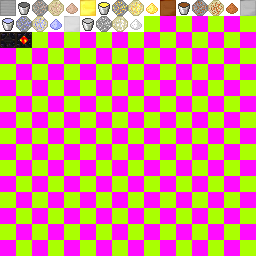
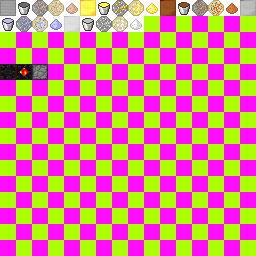
Working on Grinder TE

Changed region(s): [[0.0, 0.25, 0.1875, 0.3125], [0.0, 0.125, 0.125, 0.1875]]

diff --git a/Blocks/TileGrinder1.java b/Blocks/TileGrinder1.java
@@ -1,0 +1,102 @@
+package LM.Blocks;
+
+import net.minecraft.src.EntityPlayer;
+import net.minecraft.src.IInventory;
+import net.minecraft.src.ItemStack;
+import net.minecraft.src.NBTTagCompound;
+import buildcraft.core.TileBuildCraft;
+import buildcraft.core.network.PacketPayload;
+import buildcraft.core.network.PacketUpdate;
+
+public class TileGrinder1 extends TileBuildCraft implements IInventory {
+	public ItemStack[] inventory = new ItemStack[2];
+	
+	public void updateEntity() {
+		
+	}
+	
+	@Override
+	public PacketPayload getPacketPayload() {
+		PacketPayload payload = new PacketPayload(20, 0, 0);
+		return payload;
+	}
+	
+	@Override
+	public void handleUpdatePacket(PacketUpdate packet) {
+		
+	}
+	
+	@Override
+	public void readFromNBT(NBTTagCompound data) {
+		super.readFromNBT(data);
+	}
+	
+	@Override
+	public void writeToNBT(NBTTagCompound data) {
+		super.writeToNBT(data);
+	}
+	
+	//required stuff
+	@Override
+	public int getSizeInventory() {
+		return inventory.length;
+	}
+
+	@Override
+	public ItemStack getStackInSlot(int var1) {
+		return inventory[var1];
+	}
+
+	@Override
+	public ItemStack decrStackSize(int slotId, int count) {
+		if (inventory[slotId] == null)
+			return null;
+		if (inventory[slotId].stackSize > count)
+			return inventory[slotId].splitStack(count);
+		ItemStack stack = inventory[slotId];
+		inventory[slotId] = null;
+		return stack;
+	}
+	
+	@Override
+	public ItemStack getStackInSlotOnClosing(int i) {
+		if (this.inventory[i] == null)
+			return null;
+
+		ItemStack stackToTake = this.inventory[i];
+		this.inventory[i] = null;
+		return stackToTake;
+	}
+
+	@Override
+	public void setInventorySlotContents(int var1, ItemStack var2) {
+		inventory[var1] = var2;
+	}
+
+	@Override
+	public String getInvName() {
+		return "Grinder 1";
+	}
+
+	@Override
+	public int getInventoryStackLimit() {
+		return 64;
+	}
+
+	@Override
+	public boolean isUseableByPlayer(EntityPlayer var1) {
+		return true;
+	}
+
+	@Override
+	public void openChest() {
+		// TODO Auto-generated method stub
+		
+	}
+
+	@Override
+	public void closeChest() {
+		// TODO Auto-generated method stub
+		
+	}
+}

diff --git a/DEFAULT_SETTINGS.java b/DEFAULT_SETTINGS.java
@@ -60,10 +60,12 @@ public class DEFAULT_SETTINGS {
 		LM_Main.liquidMoltenTin = LiquidDictionary.getOrCreateLiquid("Molten " + names.get(3), new LiquidStack(LM_Main.molten.shiftedIndex, 1, 3));
 		LM_Main.liquidMoltenSilver = LiquidDictionary.getOrCreateLiquid("Molten " + names.get(4), new LiquidStack(LM_Main.molten.shiftedIndex, 1, 4));
 		
+		//* Comment out below to remove molten buckets without breaking worlds or items.
 		LiquidContainerRegistry.registerLiquid(new LiquidContainerData(LiquidDictionary.getLiquid("Molten " + names.get(0), LiquidContainerRegistry.BUCKET_VOLUME), new ItemStack(LM_Main.bucketMolten, 1, 0), new ItemStack(Item.bucketEmpty)));
 		LiquidContainerRegistry.registerLiquid(new LiquidContainerData(LiquidDictionary.getLiquid("Molten " + names.get(1), LiquidContainerRegistry.BUCKET_VOLUME), new ItemStack(LM_Main.bucketMolten, 1, 1), new ItemStack(Item.bucketEmpty)));
 		LiquidContainerRegistry.registerLiquid(new LiquidContainerData(LiquidDictionary.getLiquid("Molten " + names.get(2), LiquidContainerRegistry.BUCKET_VOLUME), new ItemStack(LM_Main.bucketMolten, 1, 2), new ItemStack(Item.bucketEmpty)));
 		LiquidContainerRegistry.registerLiquid(new LiquidContainerData(LiquidDictionary.getLiquid("Molten " + names.get(3), LiquidContainerRegistry.BUCKET_VOLUME), new ItemStack(LM_Main.bucketMolten, 1, 3), new ItemStack(Item.bucketEmpty)));
 		LiquidContainerRegistry.registerLiquid(new LiquidContainerData(LiquidDictionary.getLiquid("Molten " + names.get(4), LiquidContainerRegistry.BUCKET_VOLUME), new ItemStack(LM_Main.bucketMolten, 1, 4), new ItemStack(Item.bucketEmpty)));
+		//*/
 	}
 }

diff --git a/Blocks/BlockGrinder1.java b/Blocks/BlockGrinder1.java
@@ -1,0 +1,28 @@
+package LM.Blocks;
+
+import net.minecraft.src.BlockContainer;
+import net.minecraft.src.CreativeTabs;
+import net.minecraft.src.Material;
+import net.minecraft.src.TileEntity;
+import net.minecraft.src.World;
+
+public class BlockGrinder1 extends BlockContainer{
+
+	protected BlockGrinder1(int par1) {
+		super(par1, Material.iron);
+		setHardness(5F);
+		this.setBlockName("LargeGrinder");
+		setCreativeTab(CreativeTabs.tabDecorations);
+	}
+
+	@Override
+	public TileEntity createNewTileEntity(World var1) {
+		return new TileGrinder1();
+	}
+
+	@Override
+	public int getBlockTextureFromSide(int par1) {
+		return 65;
+	}
+	
+}

diff --git a/Blocks/LiquefierTile.java b/Blocks/LiquefierTile.java
@@ -371,7 +371,6 @@ public class LiquefierTile extends TileBuildCraft implements ITankContainer, IIn
 	@Override
 	public void setInventorySlotContents(int var1, ItemStack var2) {
 		input[var1] = var2;
-		
 	}
 
 	@Override

diff --git a/GUI/ContainerGrinder1.java b/GUI/ContainerGrinder1.java
@@ -1,0 +1,5 @@
+package LM.GUI;
+
+public class ContainerGrinder1 {
+
+}

diff --git a/GUI/SlotInputGrinder1.java b/GUI/SlotInputGrinder1.java
@@ -1,0 +1,5 @@
+package LM.GUI;
+
+public class SlotInputGrinder1 {
+
+}

diff --git a/GUI/GuiGrinder1.java b/GUI/GuiGrinder1.java
@@ -1,0 +1,5 @@
+package LM.GUI;
+
+public class GuiGrinder1 {
+
+}
